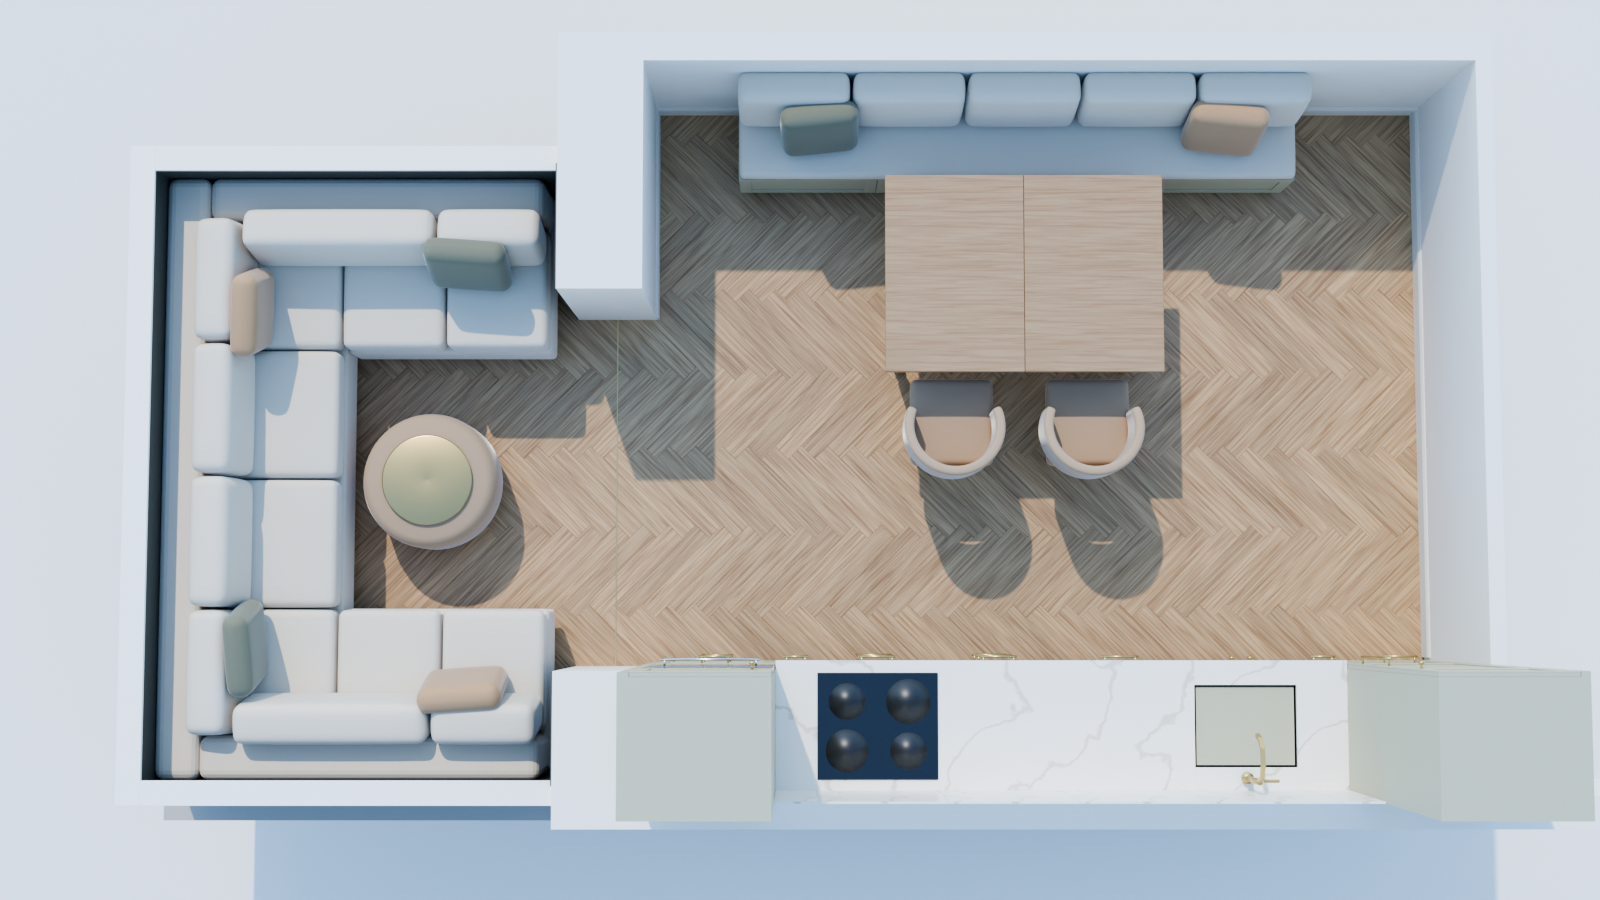
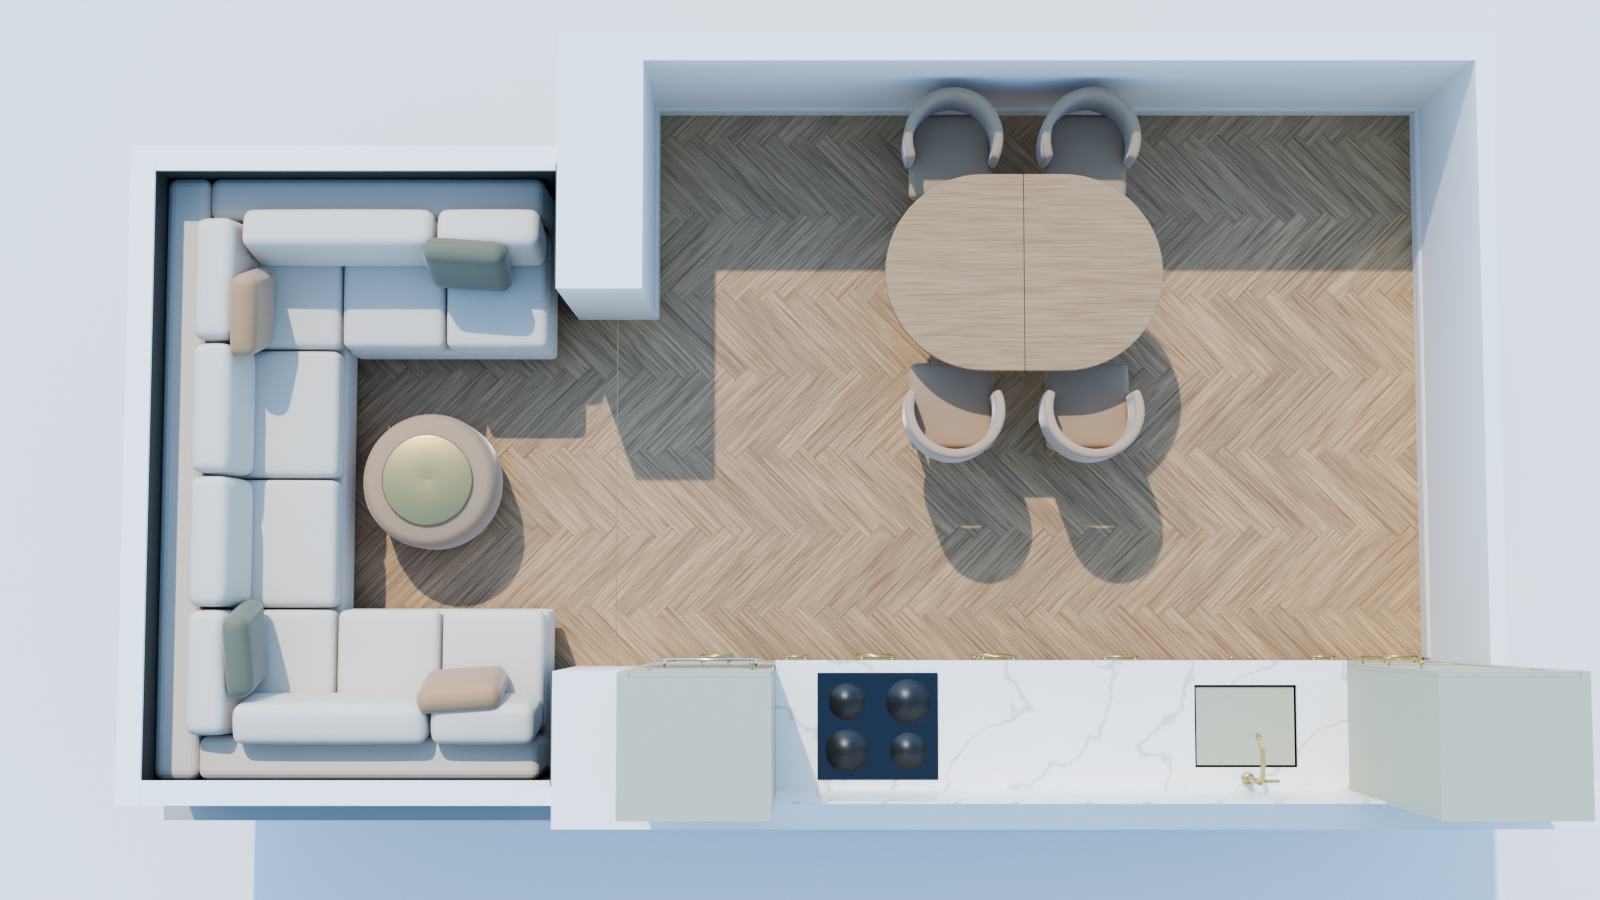
K4: motorized ceiling TV lift at the balcony portal (D38)
Claude-Session: https://claude.ai/code/session_011sUkeYXADW4VjjUfNdKrqY

diff --git a/apartment-project/tools/viz_kitchen_balcony.py b/apartment-project/tools/viz_kitchen_balcony.py
@@ -748,7 +748,7 @@ def build(cut=False):
             for i, (x, y) in enumerate(((-1500, 900), (-1500, 2200))):
                 cylinder(f'balc_downlight_{i}', x, y, H_B - 4, H_B, 40, X['trim_ring'], seg=24)
                 cylinder(f'balc_downlight_lens_{i}', x, y, H_B - 6, H_B - 4, 28, X['led'], seg=24)
-        for i, (x, y) in enumerate(SPOTS):
+        for i, (x, y) in enumerate(spots_for_layout()):
             cylinder(f'downlight_{i}', x, y, H_K - 4, H_K, 48, X['trim_ring'], seg=24)
             cylinder(f'downlight_lens_{i}', x, y, H_K - 6, H_K - 4, 34, X['led'], seg=24)
     collection('trim')
@@ -857,6 +857,8 @@ def build(cut=False):
     collection('tv_wall')
     if LAY.get('tv', True):
         tv_zone(X, S, BR)
+    if LAYOUT == 'K4':
+        tv_lift(X, cut)
     if not cut:
         for i, (a0, a1) in enumerate(LAY['frames']):
             frame_on_wall(f'mould_W8_{i}', ('y', 3580, -1), a0, a1, *LAY.get('frame_z', (760, 2380)), X['wall'])
@@ -932,8 +934,11 @@ def build(cut=False):
     collection('lights')
     warm = (1.0, 0.84, 0.68)
     if not cut:
-        for i, (x, y) in enumerate(SPOTS):
+        for i, (x, y) in enumerate(spots_for_layout()):
             spot(f'spot_{i}', x, y, H_K - 8, 22.0, warm, 75)
+        if LAYOUT == 'K4':  # споты в нижней плоскости короба ТВ-подъёмника
+            for i, (x, y) in enumerate(LIFT_SPOTS):
+                spot(f'lift_spot_{i}', x, y, LIFT_Z0 - 6, 14.0, warm, 75)
         for i, sx in enumerate(LAY['sconces']):
             point(f'sconce_l{i}', sx, 3450, 1640, 7.0, warm, 25)
         if LAYOUT == 'K4':
@@ -1071,6 +1076,79 @@ def tv_zone(X, S, BR):
 
 K4_PENDANTS = (1300, 1900, 2500)
 TABLE_STATE = 'compact'
+TV_STATE = 'up'
+# ТВ-подъёмник K4 (D38): короб под потолком кухни у портала O4, ТВ 65″ опускается в проём экраном к балкону
+LIFT = (0, 1150, 700, 2400)           # короб: x0, x1, y0, y1
+LIFT_Z0 = 2490                        # низ короба (потолок кухни +2650)
+LIFT_SPOTS = ((950, 1000), (950, 2100))
+TV65 = (1440, 830)                    # ширина, высота корпуса 65″
+TV_C = (1540, 1415)                   # центр по Y (ось П-дивана) и по высоте в опущенном положении
+TV_X = 240                            # лицевая плоскость экрана в опущенном положении (смотрит в −X, на балкон)
+
+
+def mat_screen_on():
+    """Включённый экран: мягкий «закатный» кадр (вертикальный градиент), светится."""
+    if 'screen_on' in MATS:
+        return MATS['screen_on']
+    m = _newmat('screen_on')
+    N, L = m.node_tree.nodes, m.node_tree.links
+    N.remove(N['Principled BSDF'])
+    tc = N.new('ShaderNodeTexCoord')
+    sep = N.new('ShaderNodeSeparateXYZ')
+    L.new(tc.outputs['Generated'], sep.inputs['Vector'])
+    ramp = N.new('ShaderNodeValToRGB')
+    cr = ramp.color_ramp
+    cr.elements[0].position, cr.elements[0].color = 0.0, lin('#2B3D52')
+    cr.elements[1].position, cr.elements[1].color = 1.0, lin('#F0B27C')
+    e = cr.elements.new(0.45)
+    e.color = lin('#C7735A')
+    L.new(sep.outputs['Z'], ramp.inputs['Fac'])
+    em = N.new('ShaderNodeEmission')
+    em.inputs['Strength'].default_value = 2.2
+    L.new(ramp.outputs['Color'], em.inputs['Color'])
+    gl = N.new('ShaderNodeBsdfGlossy')
+    gl.inputs['Roughness'].default_value = 0.05
+    ad = N.new('ShaderNodeAddShader')
+    L.new(em.outputs['Emission'], ad.inputs[0])
+    L.new(gl.outputs['BSDF'], ad.inputs[1])
+    L.new(ad.outputs['Shader'], N['Material Output'].inputs['Surface'])
+    MATS['screen_on'] = m
+    return m
+
+
+def spots_for_layout():
+    if LAYOUT != 'K4':
+        return SPOTS
+    x0, x1, y0, y1 = LIFT
+    return [(x, y) for x, y in SPOTS if not (x0 - 60 <= x <= x1 + 60 and y0 - 60 <= y <= y1 + 60)]
+
+
+def tv_lift(X, cut):
+    """Моторизованный потолочный подъёмник: убран — ТВ лежит в коробе (снизу видна крышка-люк);
+    опущен — ТВ висит в проёме O4 на телескопических штангах, низ +1000, экраном к П-дивану."""
+    x0, x1, y0, y1 = LIFT
+    W_, H_ = TV65
+    yc, zc = TV_C
+    if not cut:
+        box('lift_box', x0, x1, y0, y1, LIFT_Z0, 2650, X['ceil'])
+        sweep('lift_box_mould', [(x1, y0, LIFT_Z0), (x1, y1, LIFT_Z0), (x0, y1, LIFT_Z0), (x0, y0, LIFT_Z0)],
+              (0, 0, 1), [(0, 0), (0, -6), (6, -12), (14, -14), (20, -18), (24, -24)], X['ceil'])
+        for i, (sx, sy) in enumerate(LIFT_SPOTS):
+            cylinder(f'lift_downlight_{i}', sx, sy, LIFT_Z0 - 4, LIFT_Z0, 40, X['trim_ring'], seg=24)
+            cylinder(f'lift_downlight_lens_{i}', sx, sy, LIFT_Z0 - 6, LIFT_Z0 - 4, 28, X['led'], seg=24)
+    if TV_STATE == 'down':
+        # открытый проём в днище короба и ТВ в рабочем положении
+        if not cut:
+            box('lift_slot', 200, 300, yc - W_ / 2 - 20, yc + W_ / 2 + 20, LIFT_Z0 - 2, LIFT_Z0 + 2, X['rubber'])
+        z0, z1 = zc - H_ / 2, zc + H_ / 2
+        box('tv_lift_body', TV_X, TV_X + 45, yc - W_ / 2, yc + W_ / 2, z0, z1, X['tv_body'], bevel=3)
+        box('tv_lift_screen', TV_X - 2, TV_X, yc - W_ / 2 + 6, yc + W_ / 2 - 6, z0 + 6, z1 - 6, mat_screen_on())
+        for i, yy in enumerate((yc - 300, yc + 300)):
+            box(f'tv_lift_arm_{i}', TV_X + 45, TV_X + 75, yy - 15, yy + 15, z1 - 120, LIFT_Z0, X['steel'])
+        box('tv_lift_bar', TV_X + 45, TV_X + 75, yc - 330, yc + 330, z1 - 140, z1 - 100, X['steel'])
+    elif not cut:
+        # ТВ убран: снизу короба — крышка-люк с теневым швом
+        box('lift_hatch', 60, 1090, yc - W_ / 2 - 30, yc + W_ / 2 + 30, LIFT_Z0 - 3, LIFT_Z0, X['ceil'], bevel=1)
 
 
 def globe_pendant(name, x, y, ceil, r, zc, X):
@@ -1217,6 +1295,7 @@ LAYOUTS = {
             'V3': ((3300, 3400, 1300), (1600, 0, 1050), 19),       # кухонный фронт из-за стола
             'V4': ((-1300, 900, 1250), (2600, 2800, 950), 19),     # с балкона из «П» на кухню
             'V5': ((500, 1500, 1450), (-2100, 1556, 550), 20),     # П-образный диван через портал
+            'V7': ((-2050, 1556, 1150), (600, 1540, 1350), 22),    # «Кино»: вид с дивана на ТВ в проёме
             'V6': ((770, 845, 11400), (770, 1745, 0), 48),         # 3D-план сверху (запуск с --cut)
         }),
 }
@@ -1525,7 +1604,7 @@ def render(view, res, samples, out_dir, exposure=0.0, layout='K2'):
     return out
 
 
-EXPOSURE = {'V1': 0.35, 'V2': 0.3, 'V3': 0.45, 'V4': 0.45, 'V5': 0.0, 'V6': -0.2}
+EXPOSURE = {'V7': 0.3, 'V1': 0.35, 'V2': 0.3, 'V3': 0.45, 'V4': 0.45, 'V5': 0.0, 'V6': -0.2}
 
 
 def main():
@@ -1535,6 +1614,7 @@ def main():
     ap.add_argument('--samples', type=int, default=256)
     ap.add_argument('--out', default=str(OUT / 'renders'))
     ap.add_argument('--cut', action='store_true', help='сцена «кукольный домик» (для V6)')
+    ap.add_argument('--tv', default='up', choices=('up', 'down'), help='K4: ТВ-подъёмник убран или опущен')
     ap.add_argument('--table', default='compact', choices=('compact', 'extended'),
                     help='K4: раздвижной стол сложен (4 персоны) или разложен (10)')
     ap.add_argument('--layout', default='K2', choices=sorted(LAYOUTS), help='эскиз заказчика: K2 или K3')
@@ -1544,8 +1624,8 @@ def main():
     res = tuple(int(v) for v in a.res.lower().split('x'))
     Path(a.out).mkdir(parents=True, exist_ok=True)
     t = time.time()
-    global LAYOUT, LAY, TABLE_STATE
-    LAYOUT, LAY, TABLE_STATE = a.layout, LAYOUTS[a.layout], a.table
+    global LAYOUT, LAY, TABLE_STATE, TV_STATE
+    LAYOUT, LAY, TABLE_STATE, TV_STATE = a.layout, LAYOUTS[a.layout], a.table, a.tv
     build(cut=a.cut)
     if a.threads:
         bpy.context.scene.render.threads_mode = 'FIXED'
@@ -1555,7 +1635,8 @@ def main():
         bpy.ops.wm.save_as_mainfile(filepath=str(Path(a.blend).resolve()))
         print('  .blend:', a.blend)
     for v in [v for v in a.views.split(',') if v]:
-        tag = a.layout + ('-ext' if a.layout == 'K4' and a.table == 'extended' else '')
+        tag = a.layout + ('-ext' if a.layout == 'K4' and a.table == 'extended' else '') + \
+            ('-tv' if a.layout == 'K4' and a.tv == 'down' else '')
         render(v, res, a.samples, a.out, EXPOSURE.get(v, 0.0), tag)
 
 

diff --git a/apartment-project/00-brief/decisions.md b/apartment-project/00-brief/decisions.md
@@ -41,3 +41,4 @@
 | D35 | 2026-11-06 | Заказчик: несущую стену W2 не трогать (проём O4 остаётся 1860, расширение из K3 отменено); на балконе П-образный диван вместо углового; ТВ-зону из кухни убрать; в кухне большой стол на 10 персон | Вариант **K4** (`--layout K4`, рендеры kitchen-balcony-K4-V1…V6): балкон — П-образный диван (спинка вдоль B1, боковины глубиной 850 вдоль B2/B3, открыт к проёму, проход между боковинами ≈1320), круглый пуф-столик в центре. Кухня — стол 2400×1000 (дуб, точёные ножки): мягкая банкетка вдоль W8 на 4 места, 4 кресла со стороны кухни, 2 в торцах = 10 мест; проход от кухонного фронта до спинок кресел ≈900; над столом 3 подвеса-шара. Консоль и ТВ на W8 убраны, на стене — рамки-молдинги и 2 бра. Рабочие разделы — после утверждения K4 | заказчик |
 | D36 | 2026-11-06 | Уточнение к D35: стол в кухне раздвижной | Стол 1000 в ширину: **сложен 1400 — на 4 персоны** (2 на банкетке + 2 кресла), **разложен 2400 — на 10** (две вставки по 500, опорные ножки под вставками; 4 на банкетке + 4 кресла + 2 в торцах). Хранение 4 дополнительных кресел — уточнить (кладовая/постирочная или складные стулья). Рендеры: kitchen-balcony-K4-V*.png — сложен, kitchen-balcony-K4-ext-V1/V2/V6.png — разложен (`--table extended`) | заказчик |
 | D37 | 2026-11-06 | Уточнение к D35/D36: без банкетки у стола, стол закруглённый | Банкетка вдоль W8 убрана. Стол — **раздвижной овальный** (ширина 1000, полукруглые торцы R500) на двух точёных тумбах с каннелюрами (дуб): сложен 1400 — 4 кресла (по 2 с длинных сторон), разложен 2400 (две вставки по 500) — 10 кресел (по 4 с длинных сторон и по одному в торцах). Проход от кухонного фронта до спинок кресел ≈1000, кресла у W8 — вплотную к стене (≈50 до стены). На W8 — рамки-молдинги и 2 бра | заказчик |
+| D38 | 2026-11-06 | Большой ТВ для просмотра с П-дивана на балконе, не мешающий в кухне | **Потолочный моторизованный подъёмник ТВ 65″** у портала O4 со стороны кухни: короб-ламбрекен под потолком x 0…1150, y 700…2400, низ +2490 (C1, с карнизом; в днище — крышка-люк и 2 спота). В обычном режиме ТВ лежит в коробе — кухня свободна. Сцена «Кино»: ТВ опускается в проём экраном к дивану (плоскость x≈240, центр y 1540 — ось «П», низ +1000, центр +1415, верх +1830), расстояние с центральных мест ≈2,3 м — 65″ оптимально (75″ — слишком близко). Пока ТВ опущен, проход кухня–балкон перекрыт — только на время просмотра. Требуется: питание 230 В и слаботочка (HDMI/Ethernet) в короб, Zigbee/IR-управление подъёмником в сцене «Кино», ревизия механизма через люк; глубина механизма flip-down/drop-down — 160 мм (короб 160 при плите +2750, потолке +2650). Модель подъёмника — по ТЗ (механизм с вертикальным ходом ≥700 мм). Рабочие разделы (ЭО/ЭМ, потолки) — после утверждения K4 | заказчик |
